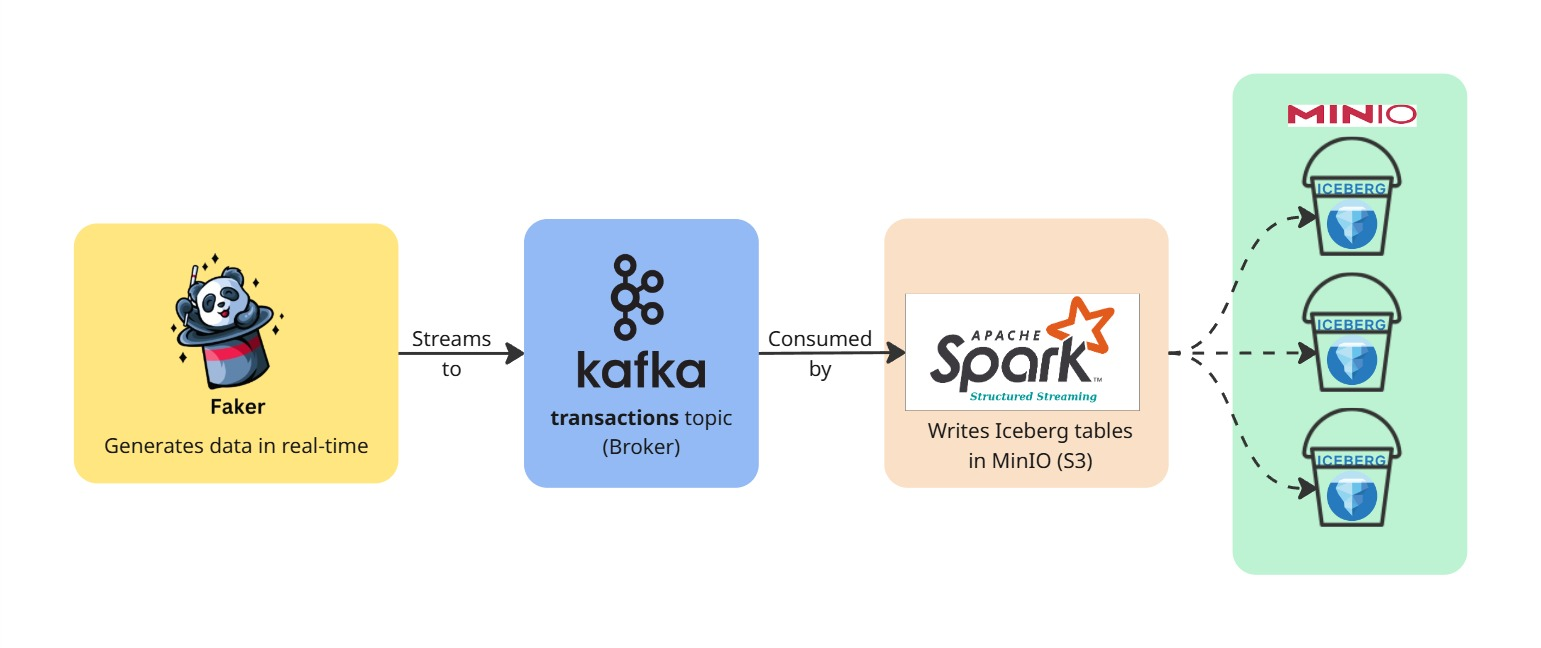
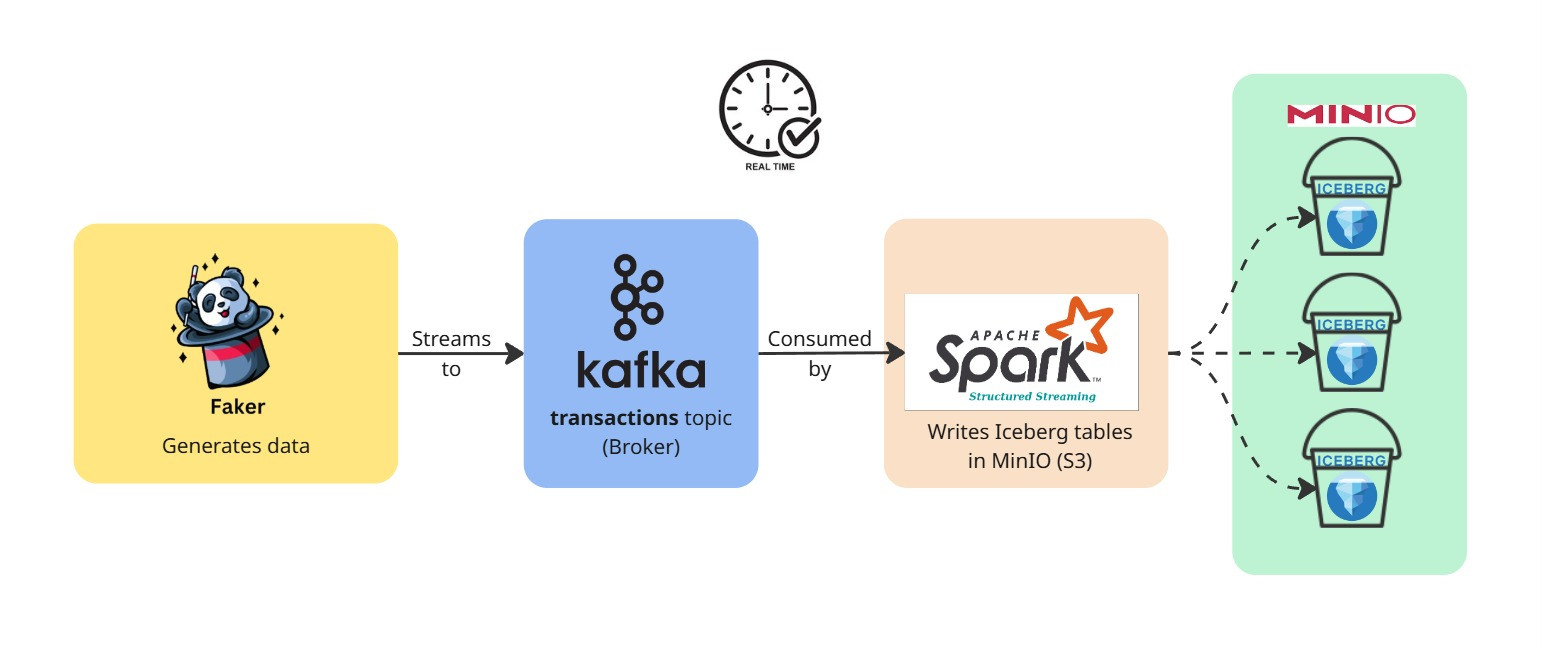
enhanced readme

diff --git a/README.md b/README.md
@@ -14,7 +14,6 @@ It simulates live transaction streams, processes them in real time with Spark St
 2. These messages are published to a Kafka topic named `transactions`.
 3. A **Spark Structured Streaming** job consumes this topic in real time.
 4. Spark writes the parsed transaction data into an **Iceberg table** stored in **MinIO (S3)**.
-5. The Iceberg table can then be queried using Spark SQL for analytics.
 
 ---
 
@@ -23,7 +22,7 @@ It simulates live transaction streams, processes them in real time with Spark St
 | Component | Description |
 |------------|-------------|
 | **Apache Kafka** | Message broker for real-time data streaming |
-| **Apache Spark 3.5.1** | Stream processing engine |
+| **Apache Spark** | Stream processing engine |
 | **Apache Iceberg** | Lakehouse table format with ACID guarantees |
 | **MinIO** | S3-compatible object storage |
 | **Docker Compose** | Container orchestration |
@@ -87,7 +86,7 @@ Sent: {'txn_id': '...', 'user_id': 1423, 'amount': 134.22, 'currency': 'MYR', ..
 
 ## ⚡ Step 4: Start Spark Structured Streaming
 
-Run the following command **inside the Spark container** to start the stream:
+At the same time, open another terminal and run the following command **inside the Spark container** to start the stream:
 
 ```bash
 docker exec -it spark \
